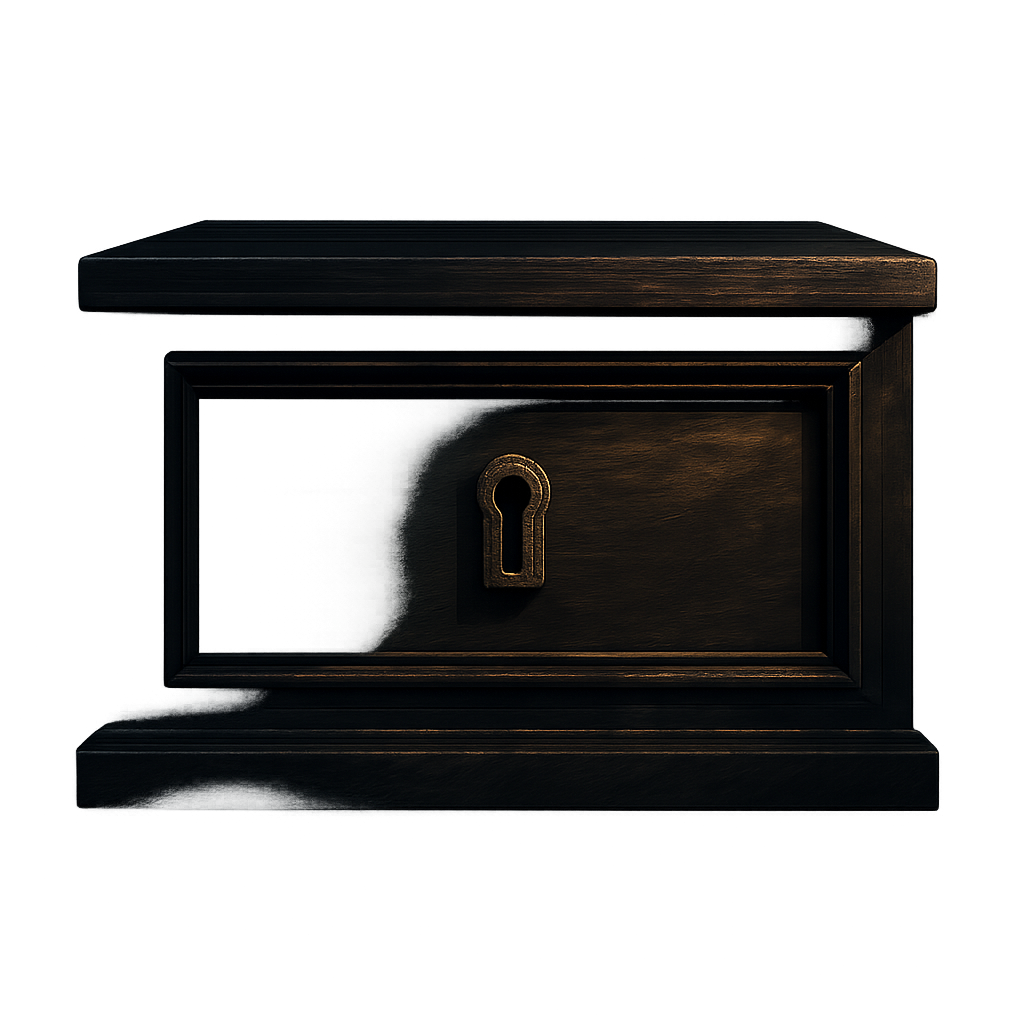
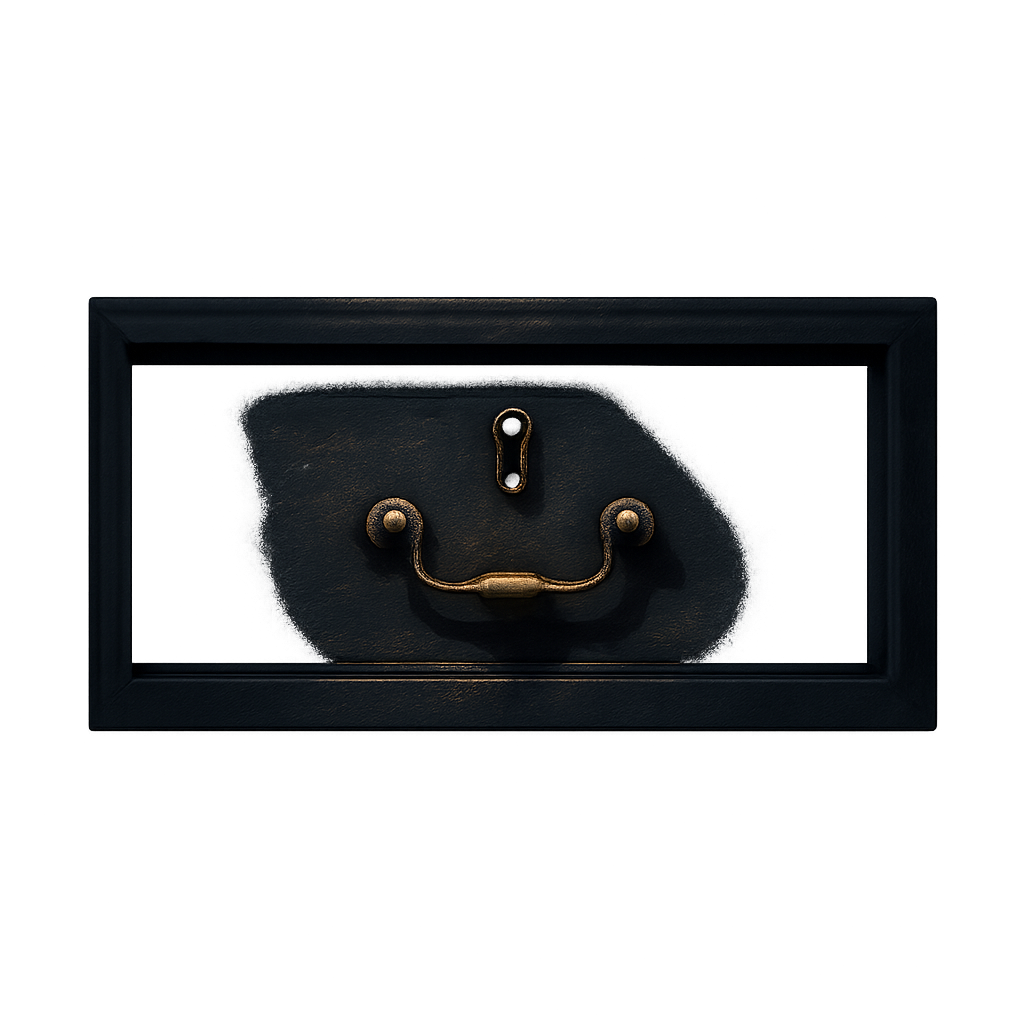
Fix duplicated objects and garbled text in the office background
The background prompt was describing the same props (phone, computer,
lamp, envelope, photo) that are also placed as separate layers,
causing visual duplication. Rewrote it to render only the empty room
shell. Also fixed the drawer layer (was rendering as a floating box
instead of a flat front panel) and removed AI-generated gibberish
text on the glass door.

diff --git a/tools/generate_art.py b/tools/generate_art.py
@@ -37,12 +37,16 @@ MANIFEST: list[tuple[str, str, str]] = [
     (
         "backgrounds/oficina-noche-lluvia.png",
         "Wide first-person view from behind a private investigator's desk at "
-        "night: a black rotary telephone on the left, a dark computer monitor "
-        "at the center, a desk lamp with an ashtray and a cold cup of coffee, "
-        "a photograph lying face down, an unopened envelope, a closed wooden "
-        "drawer, metal filing cabinets and cardboard boxes against the wall, "
-        "an almost-empty cork board, a frosted glass office door, three tall "
-        "windows streaked with rain and glowing with neon city light outside"
+        "night, showing only the empty room shell: a completely bare wooden "
+        "desk surface with absolutely nothing on top of it (no phone, no "
+        "computer, no lamp, no papers, no cup, no photograph, no envelope — "
+        "the desk is empty, all of those props are added later as separate "
+        "layers), metal filing cabinets and cardboard boxes against the wall, "
+        "an almost-empty cork board, a plain frosted glass office door with "
+        "completely blank glass (absolutely no text, letters, numbers or "
+        "lettering painted on the glass), three tall windows streaked with "
+        "rain and glowing with neon city light outside. Empty desk surface "
+        "is critical — do not place any object on it."
         + STYLE_SUFFIX,
         "background",
     ),
@@ -81,7 +85,10 @@ MANIFEST: list[tuple[str, str, str]] = [
     ),
     (
         "layers/cajon-cerrado.png",
-        "A closed wooden desk drawer front with a small brass keyhole" + STYLE_SUFFIX + OBJECT_SUFFIX,
+        "A flat rectangular wooden desk drawer front panel with a small brass "
+        "handle and keyhole, viewed straight-on like a texture swatch, no "
+        "sides or legs or perspective depth, just the flat front face of the "
+        "drawer" + STYLE_SUFFIX + OBJECT_SUFFIX,
         "object",
     ),
     (
